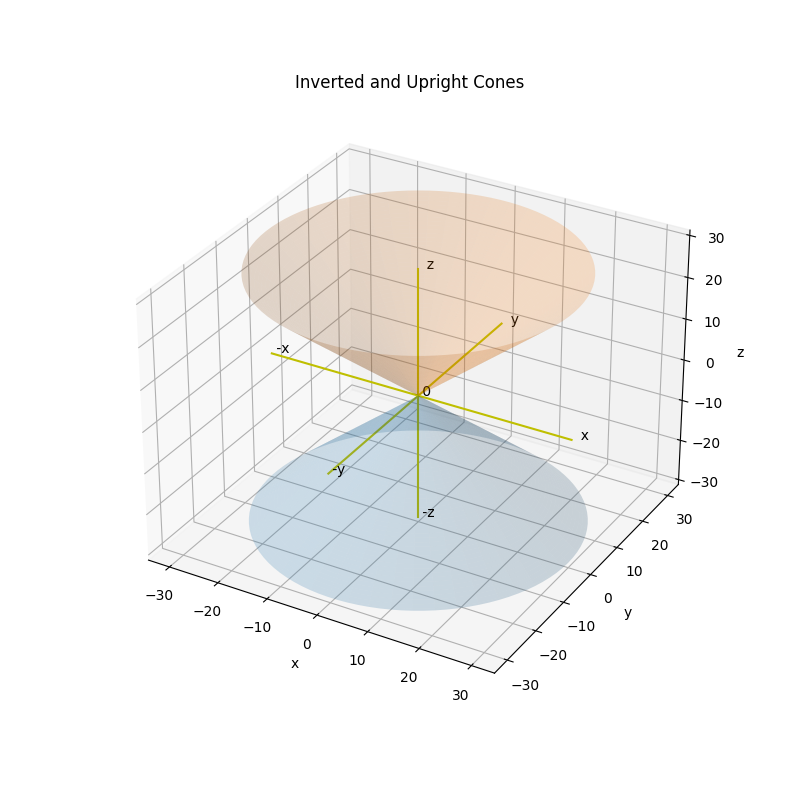
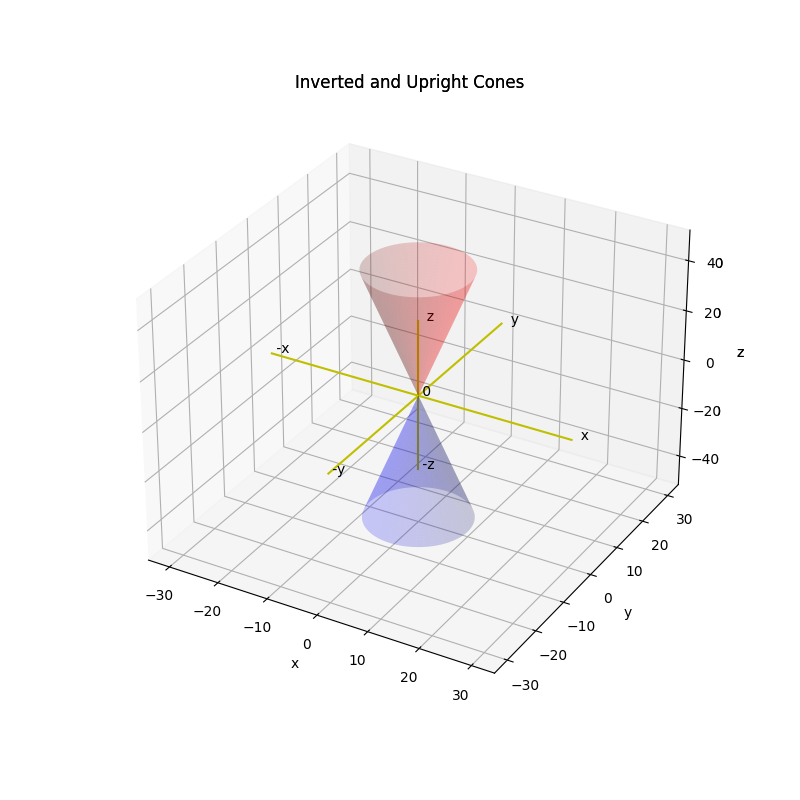
update

diff --git a/Midterms_correction/Midterms/Data/variables.py b/Midterms_correction/Midterms/Data/variables.py
@@ -68,8 +68,8 @@ dots,   cdots,  vdots,  ddots  = symbols("\
 
 "The cone equations"
 
-ecx=Eq(x,(height-u)/height*base*Cos(phi))
-ecy=Eq(y,(height-u)/height*base*Sin(phi))
+ecx=Eq(x,(u)/height*base*Cos(phi))
+ecy=Eq(y,(u)/height*base*Sin(phi))
 ecz=Eq(z,u)
 ecdelta=Eq(delta,2*aTan(rc/height))
 ec1=Eq(x**2+y**2,ecy.rhs**2+ecx.rhs**2).subs(u,z).simplify()
